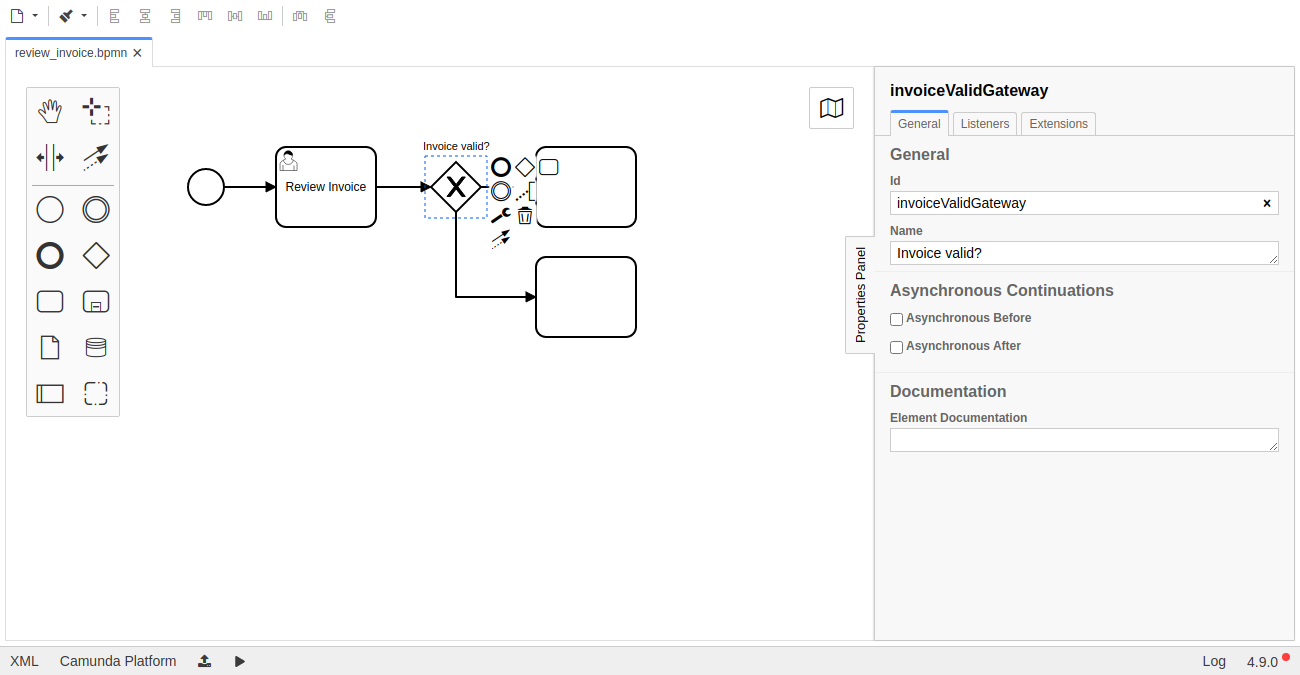
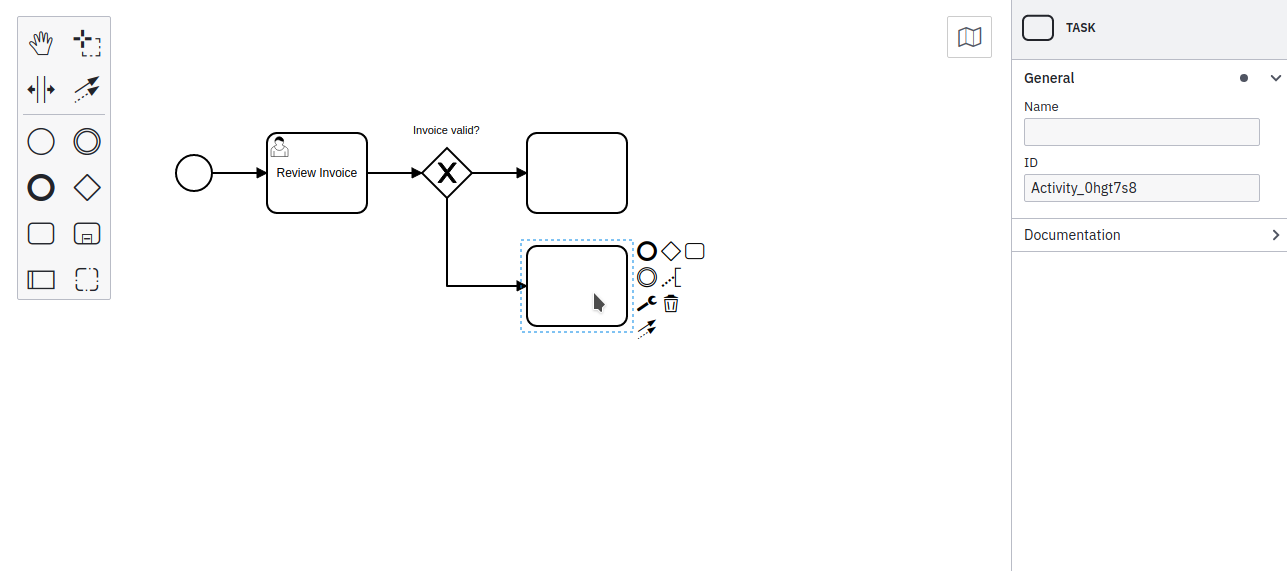
chore(bpmnQuickstart): make quickstart modeler agnostic
* Given Web and Desktop Modeler co-existence, the quickstart shall be
  agnostic

diff --git a/docs/components/modeler/bpmn/bpmn.md b/docs/components/modeler/bpmn/bpmn.md
@@ -4,13 +4,7 @@ title: BPMN in Modeler
 description: Let's start modeling by creating a BPMN diagram.
 ---
 
-# Create a BPMN 2.0 diagram
-
-To start modeling, create a BPMN 2.0 diagram by selecting **Create New Diagram** in the **Diagrams** tab for your process engine in the top-level menu.
-
-:::note
-If working in Camunda Platform 7, select **Create diagram > Create new BPMN diagram**.
-:::
+# Model a BPMN 2.0 diagram
 
 :::note
 BPMN diagrams must be created for the process engine they intend to be deployed on. You cannot run a BPMN diagram modeled for Camunda Platform 7 in Camunda Cloud, or vice versa, at this time.
@@ -20,9 +14,7 @@ BPMN diagrams must be created for the process engine they intend to be deployed 
 
 ![Start Modeling](./assets/quickstart-2.png)
 
-Now you can start to create a BPMN 2.0 model. Add the desired elements from the palette on the left side of the page by dragging and dropping them onto the diagram canvas.
-
-Alternatively, you can add new elements by using the context menu that appears when you select an element in the diagram. Using the wrench icon in the context menu, you can change the type of an element in place.
+The Web and Desktop Modeler both offer the same core BPMN 2.0 Modeling experience: you can add BPMN elements from the palette on the left side of the page by dragging and dropping them onto the diagram canvas. Alternatively, you can add new elements by using the context menu that appears when you select an element in the diagram. Using the wrench icon in the context menu, you can change the type of an element in place.
 
 ## Demo
 
@@ -32,22 +24,10 @@ The demo above shows how to create more BPMN 2.0 elements like lanes, task types
 
 ## BPMN 2.0 coverage
 
-Modeler [covers all BPMN 2.0 elements](/docs/components/modeler/bpmn/bpmn-coverage/) for modeling processes and collaborations.
+The Modeler [covers all BPMN 2.0 elements](/docs/components/modeler/bpmn/bpmn-coverage/) for modeling processes and collaborations.
 
 ## BPMN 2.0 properties for execution
 
 ![Save BPMN Diagram](./assets/quickstart-3.png)
 
 In the properties panel on the right side, view and edit attributes that apply to the selected element.
-
-![Save BPMN Diagram](./assets/quickstart-4.png)
-
-The panel can be hidden and displayed by clicking the tab on its left border.
-
-## Save a diagram
-
-To save your state of work, click **Save**.
-
-:::note
-To save your state of work in Camunda Platform 7, click **File > Save File As...** in the top-level menu. Then, select a location on your file system to store the diagram in the BPMN 2.0 XML format. You can load that file again by clicking **File > Open File...**.
-:::
